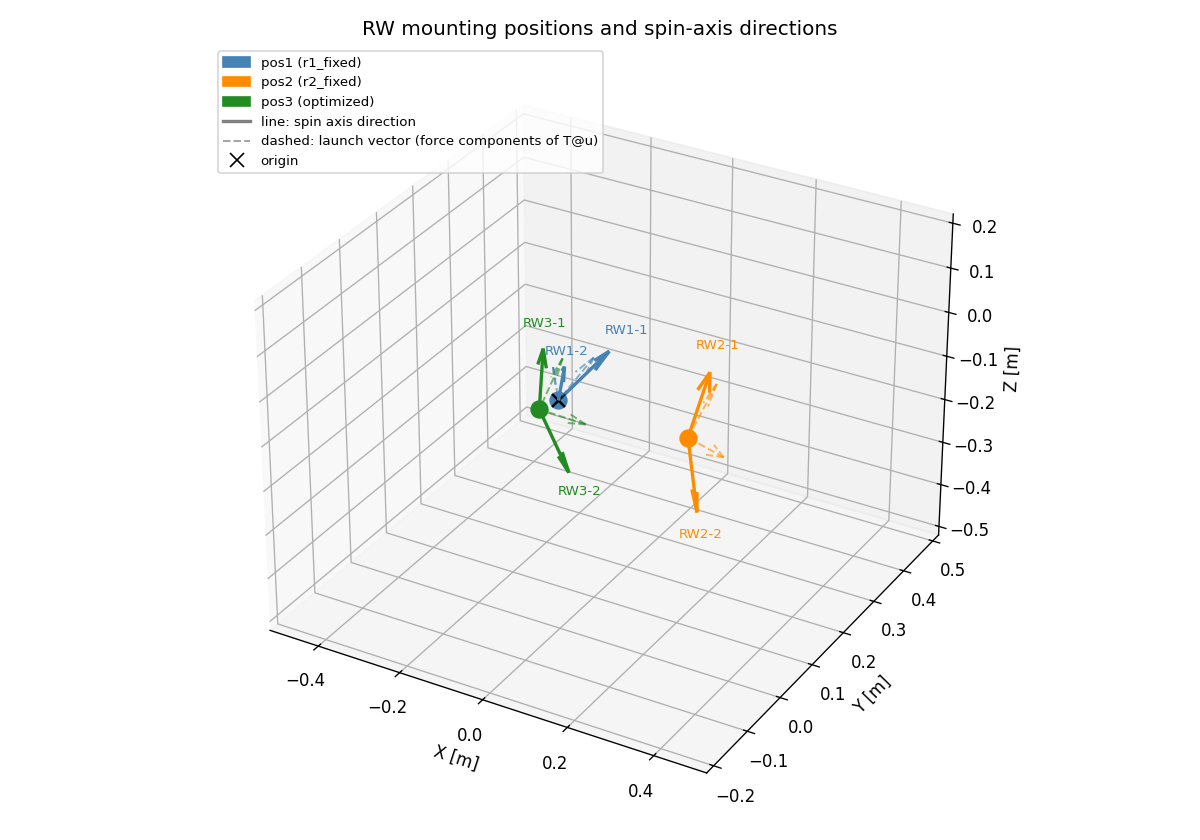
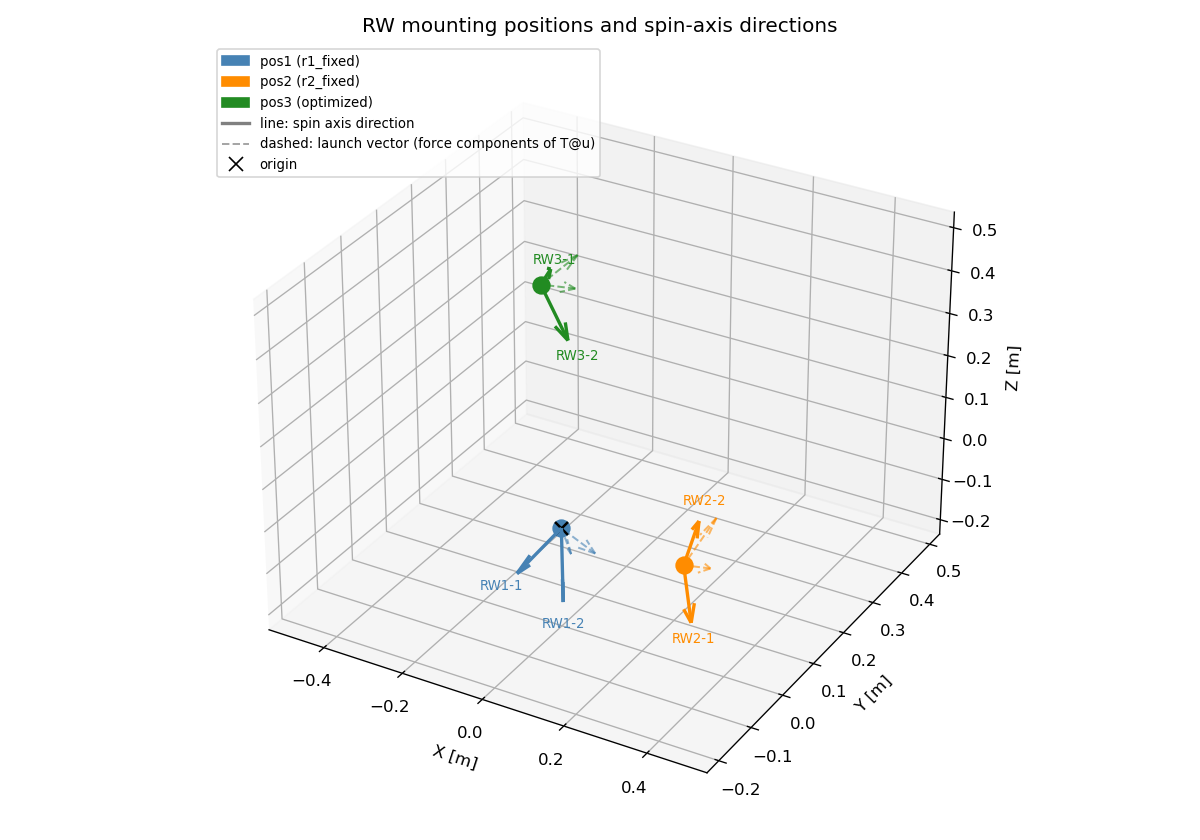
ファイル構造ちょっと整理

diff --git a/forward.py b/forward.py
@@ -1,3 +1,4 @@
+import os
 import numpy as np
 import matplotlib.pyplot as plt
 
@@ -62,7 +63,7 @@ def compute_outputs(U_rw_freq, T_list, G_omega, fs,
     return U_freq_list, Y_freq_list, y_time_list
 
 
-def plot_time_domain(t, y_time_list, config_labels, save_path="output_time.png",
+def plot_time_domain(t, y_time_list, config_labels, save_path="png/output_time.png",
                      t_start=0.0, t_end=1.0):
     """各配置の出力時間信号を描画（6成分 × N_configs）
 
@@ -89,6 +90,7 @@ def plot_time_domain(t, y_time_list, config_labels, save_path="output_time.png",
     plt.suptitle(f"Output time signals  y_i(t)  [{t_start:.2f} – {t_end:.2f} s]",
                  fontsize=12)
     plt.tight_layout()
+    os.makedirs(os.path.dirname(save_path), exist_ok=True)
     plt.savefig(save_path, dpi=120)
     print(f"saved: {save_path}")
     plt.show()
@@ -96,7 +98,7 @@ def plot_time_domain(t, y_time_list, config_labels, save_path="output_time.png",
 
 def plot_freq_domain(freq, U_freq_list, Y_freq_list, G_omega,
                      Omega, n_harmonics, config_labels,
-                     save_path="output_freq.png"):
+                     save_path="png/output_freq.png"):
     """
     各配置の出力スペクトルと入力スペクトルを並べて描画。
     高調波位置に縦線を引き、G*U の掛け算効果を視覚化する。
@@ -150,6 +152,7 @@ def plot_freq_domain(freq, U_freq_list, Y_freq_list, G_omega,
                  "(gray dashed: harmonics n·f0,  dotted: G_true resonances)",
                  fontsize=10)
     plt.tight_layout()
+    os.makedirs(os.path.dirname(save_path), exist_ok=True)
     plt.savefig(save_path, dpi=120)
     print(f"saved: {save_path}")
     plt.show()

diff --git a/d_optimize/result/optimal_configs.py b/d_optimize/result/optimal_configs.py
@@ -1,21 +1,21 @@
 import numpy as np
 
 # === D最適化結果 (d_optimize.py で自動生成) ===
-# log|det(U_mat)| = -0.220435
+# log|det(U_mat)| = -0.218985
 # cond(U_mat)     = 12.70
 # rank            = 6
 
 r_1 = np.array([0.00000000, 0.00000000, 0.00000000])
 r_2 = np.array([0.30000000, 0.00000000, 0.00000000])
-r_3 = np.array([-0.30000000, 0.30000000, -0.30000000])
+r_3 = np.array([-0.30000000, 0.30000000, 0.30000000])
 
 CONFIGS_SPEC = [
-    (r_1, np.array([0.00000000, 0.99534863, 0.09633844])),  # pos1-RW1
-    (r_1, np.array([0.40009522, -0.35897624, 0.84324366])),  # pos1-RW2
-    (r_2, np.array([0.24697699, 0.10415091, 0.96340799])),  # pos2-RW1
-    (r_2, np.array([0.25701149, -0.13407269, -0.95706301])),  # pos2-RW2
-    (r_3, np.array([0.08218553, -0.00587032, 0.99659976])),  # pos3-RW1
-    (r_3, np.array([0.71048461, -0.25157660, -0.65720685])),  # pos3-RW2
+    (r_1, np.array([0.08888717, -0.99601938, 0.00666784])),  # pos1-RW1
+    (r_1, np.array([0.26233470, -0.28553678, -0.92176421])),  # pos1-RW2
+    (r_2, np.array([0.05348009, 0.10435559, -0.99310110])),  # pos2-RW1
+    (r_2, np.array([0.36222769, -0.15636264, 0.91888075])),  # pos2-RW2
+    (r_3, np.array([0.56965594, -0.46475101, 0.67786327])),  # pos3-RW1
+    (r_3, np.array([0.33619471, 0.16315961, -0.92755165])),  # pos3-RW2
 ]
 
 CONFIG_LABELS = ['pos1-RW1', 'pos1-RW2', 'pos2-RW1', 'pos2-RW2', 'pos3-RW1', 'pos3-RW2']

diff --git a/identify.py b/identify.py
@@ -1,3 +1,4 @@
+import os
 import numpy as np
 import matplotlib.pyplot as plt
 
@@ -71,7 +72,7 @@ def identify_G(U_freq_list, Y_freq_list, freq, Omega, n_harmonics,
 
 
 def compare_G(G_hat, G_true_vals, harm_freqs, cond_U,
-              save_path="identification_result.png"):
+              save_path="png/identification_result.png"):
     """
     G_hat と G_true を全 36 成分で比較する（振幅・位相・相対誤差）。
 
@@ -140,6 +141,7 @@ def compare_G(G_hat, G_true_vals, harm_freqs, cond_U,
     fig.text(0.005, 0.5, "|G|", va="center", rotation="vertical", fontsize=11)
     plt.suptitle("Identification result: |G_true| vs |G_hat|  —  rows: output DOF,  cols: input DOF",
                  fontsize=12, y=0.995)
+    os.makedirs(os.path.dirname(save_path), exist_ok=True)
     plt.savefig(save_path, dpi=120, bbox_inches="tight")
     print(f"saved: {save_path}")
     plt.show()
@@ -166,6 +168,7 @@ def compare_G(G_hat, G_true_vals, harm_freqs, cond_U,
     plt.suptitle("Identification quality metrics", fontsize=12)
     plt.tight_layout()
     err_path = save_path.replace(".png", "_error.png")
+    os.makedirs(os.path.dirname(err_path), exist_ok=True)
     plt.savefig(err_path, dpi=120)
     print(f"saved: {err_path}")
     plt.show()

diff --git a/position_transform.py b/position_transform.py
@@ -56,7 +56,7 @@ def build_U_mat(u_rw):
     return np.column_stack([T @ u_rw for T in T_LIST])
 
 
-def plot_configs(save_path="configs_3d.png"):
+def plot_configs(save_path="png/configs_3d.png"):
     """取り付け位置と向きを3D空間上に矢印で描画する"""
     import matplotlib.pyplot as plt
     from mpl_toolkits.mplot3d.axes3d import Axes3D
@@ -112,6 +112,7 @@ def plot_configs(save_path="configs_3d.png"):
     ax.set_ylim(lim_lo[1], lim_hi[1])
     ax.set_zlim(lim_lo[2], lim_hi[2])
     plt.tight_layout()
+    os.makedirs(os.path.dirname(save_path), exist_ok=True)
     plt.savefig(save_path, dpi=120)
     print(f"saved: {save_path}")
     plt.show()

diff --git a/transfer_matrix.py b/transfer_matrix.py
@@ -1,3 +1,4 @@
+import os
 import numpy as np
 
 # --- Step 1: 真の伝達行列 G_true(ω) の定義 ---
@@ -142,6 +143,7 @@ if __name__ == "__main__":
     plt.suptitle("G_true all components (amplitude)  [blue=diag, orange=off-diag, red=diag f_n, green=crosstalk f_n]",
                  fontsize=11)
     plt.tight_layout(rect=[0.02, 0.02, 1, 0.97])
-    plt.savefig("G_true_all.png", dpi=120)
-    print("saved: G_true_all.png")
+    os.makedirs("png", exist_ok=True)
+    plt.savefig("png/G_true_all.png", dpi=120)
+    print("saved: png/G_true_all.png")
     plt.show()

diff --git a/signal_gen.py b/signal_gen.py
@@ -1,3 +1,4 @@
+import os
 import numpy as np
 
 # --- Step 3: 入力信号の生成 ---
@@ -151,6 +152,7 @@ if __name__ == "__main__":
     axes[0, 0].legend(fontsize=7)
     plt.suptitle(f"RW Disturbance Spectrum  (RW Speed = {rpm:.0f} rpm)", fontsize=12)
     plt.tight_layout()
-    plt.savefig("u_rw_spectrum.png", dpi=120)
-    print("saved: u_rw_spectrum.png")
+    os.makedirs("png", exist_ok=True)
+    plt.savefig("png/u_rw_spectrum.png", dpi=120)
+    print("saved: png/u_rw_spectrum.png")
     plt.show()
